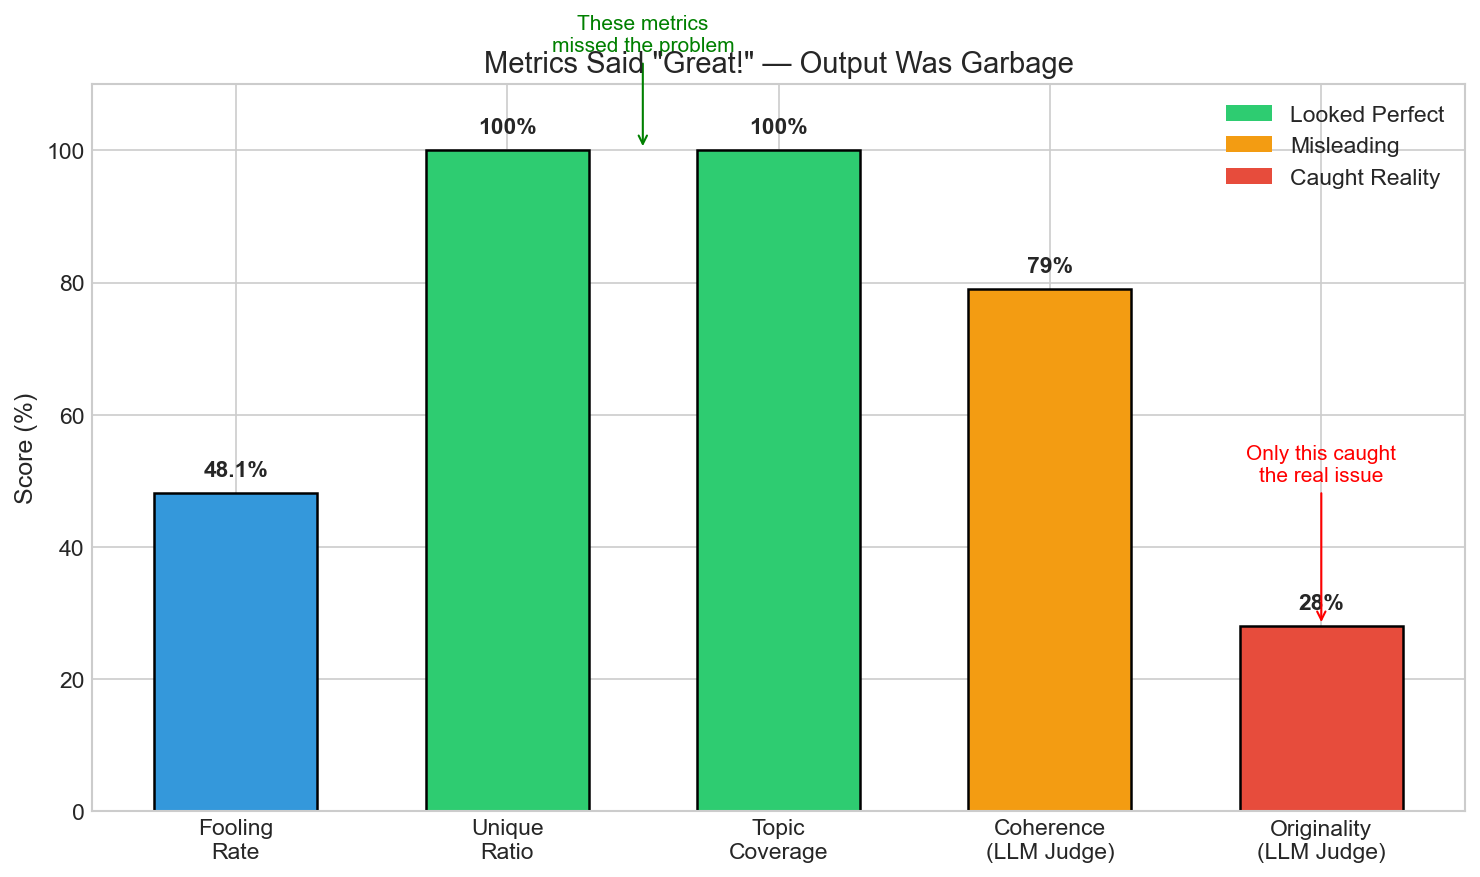
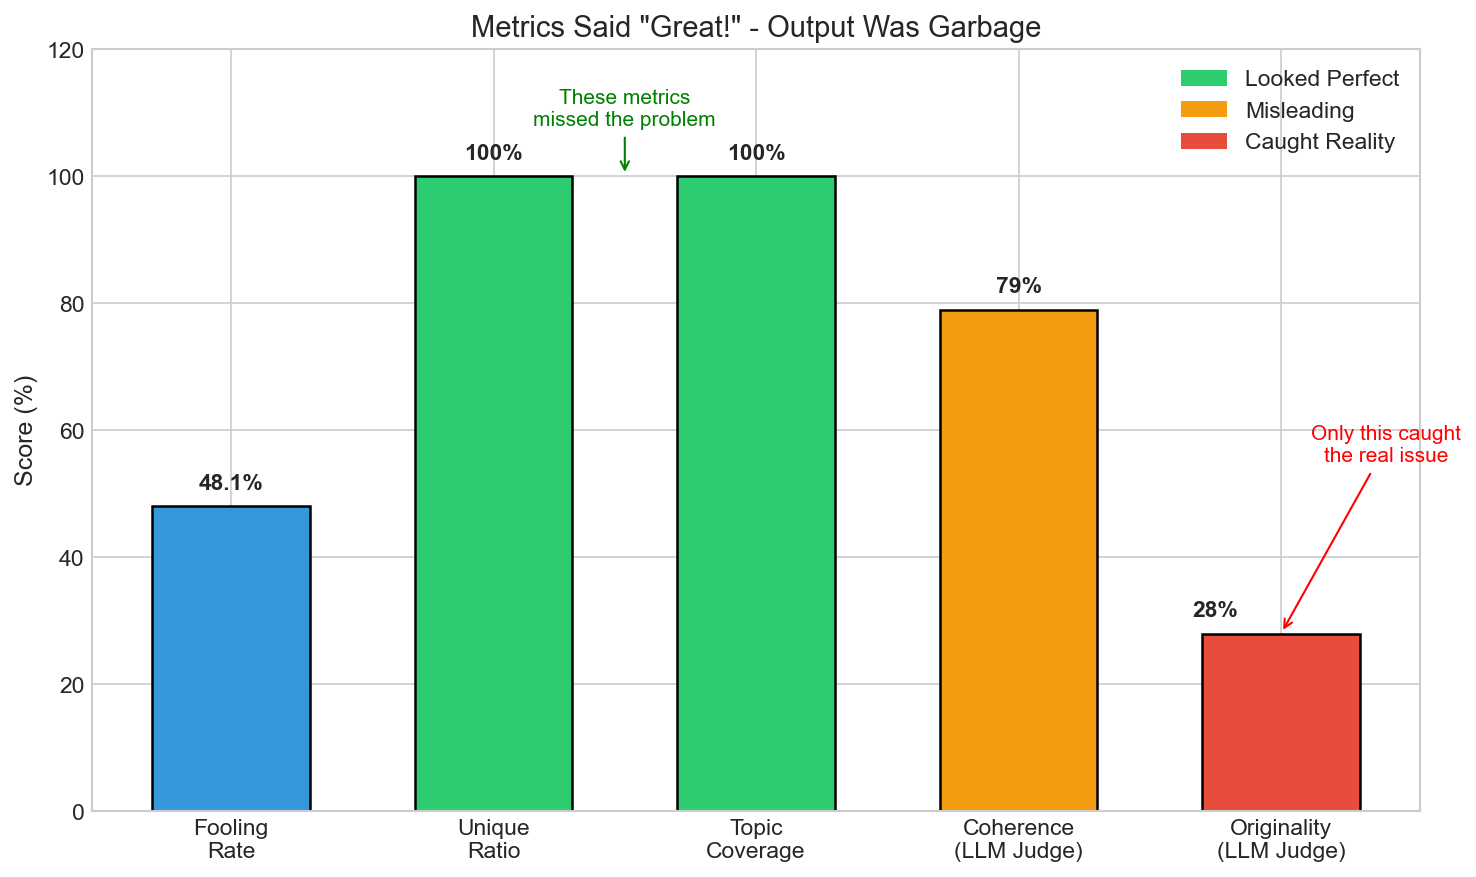
Fix GAN visualization issues
- Metrics vs Reality: Single dash in title, annotations within chart bounds
- Metrics vs Reality: Move 28% label to avoid arrow overlap
- V1 vs V2: Reposition "Mode collapse fixed" annotation above bars

🤖 Generated with [Claude Code](https://claude.com/claude-code)

diff --git a/scripts/generate_visualizations.py b/scripts/generate_visualizations.py
@@ -228,20 +228,24 @@ def generate_gan_visualizations():
 
     bars = ax.bar(metrics, metric_values, color=colors, width=0.6, edgecolor='black', linewidth=1.2)
     ax.set_ylabel('Score (%)')
-    ax.set_title('Metrics Said "Great!" — Output Was Garbage')
-    ax.set_ylim(0, 110)
+    ax.set_title('Metrics Said "Great!" - Output Was Garbage')  # Single dash
+    ax.set_ylim(0, 120)  # More room for annotations
 
-    # Add value labels
-    for bar, val in zip(bars, metric_values):
-        ax.text(bar.get_x() + bar.get_width()/2, bar.get_height() + 2,
-                f'{val}%', ha='center', va='bottom', fontweight='bold', fontsize=11)
+    # Add value labels - position 28% to the left to avoid arrow overlap
+    for i, (bar, val) in enumerate(zip(bars, metric_values)):
+        if i == 4:  # Originality bar - position label to the left
+            ax.text(bar.get_x() + bar.get_width()/2 - 0.25, bar.get_height() + 2,
+                    f'{val}%', ha='center', va='bottom', fontweight='bold', fontsize=11)
+        else:
+            ax.text(bar.get_x() + bar.get_width()/2, bar.get_height() + 2,
+                    f'{val}%', ha='center', va='bottom', fontweight='bold', fontsize=11)
 
-    # Add annotations
-    ax.annotate('These metrics\nmissed the problem', xy=(1.5, 100), xytext=(1.5, 115),
+    # Add annotations - keep within chart bounds
+    ax.annotate('These metrics\nmissed the problem', xy=(1.5, 100), xytext=(1.5, 108),
                 fontsize=10, ha='center', color='green',
                 arrowprops=dict(arrowstyle='->', color='green'))
 
-    ax.annotate('Only this caught\nthe real issue', xy=(4, 28), xytext=(4, 50),
+    ax.annotate('Only this caught\nthe real issue', xy=(4, 28), xytext=(4.4, 55),
                 fontsize=10, ha='center', color='red',
                 arrowprops=dict(arrowstyle='->', color='red'))
 
@@ -274,11 +278,13 @@ def generate_gan_visualizations():
     ax.set_title('V1 vs V2: Training Improvements')
     ax.set_xticks(x)
     ax.set_xticklabels(metrics)
-    ax.legend()
+    ax.legend(loc='upper right')
+    ax.set_ylim(0, 120)  # More room for annotation
 
-    # Add annotations
-    ax.annotate('Mode collapse\nfixed', xy=(0, 100), xytext=(0.3, 85),
-                fontsize=9, ha='left')
+    # Add annotation - positioned above bars, not overlapping
+    ax.annotate('Mode collapse\nfixed', xy=(0.175, 100), xytext=(0.6, 110),
+                fontsize=9, ha='center',
+                arrowprops=dict(arrowstyle='->', color='#3498db', lw=1.5))
 
     plt.tight_layout()
     plt.savefig(os.path.join(out_dir, 'v1_vs_v2.png'), dpi=150, bbox_inches='tight')
